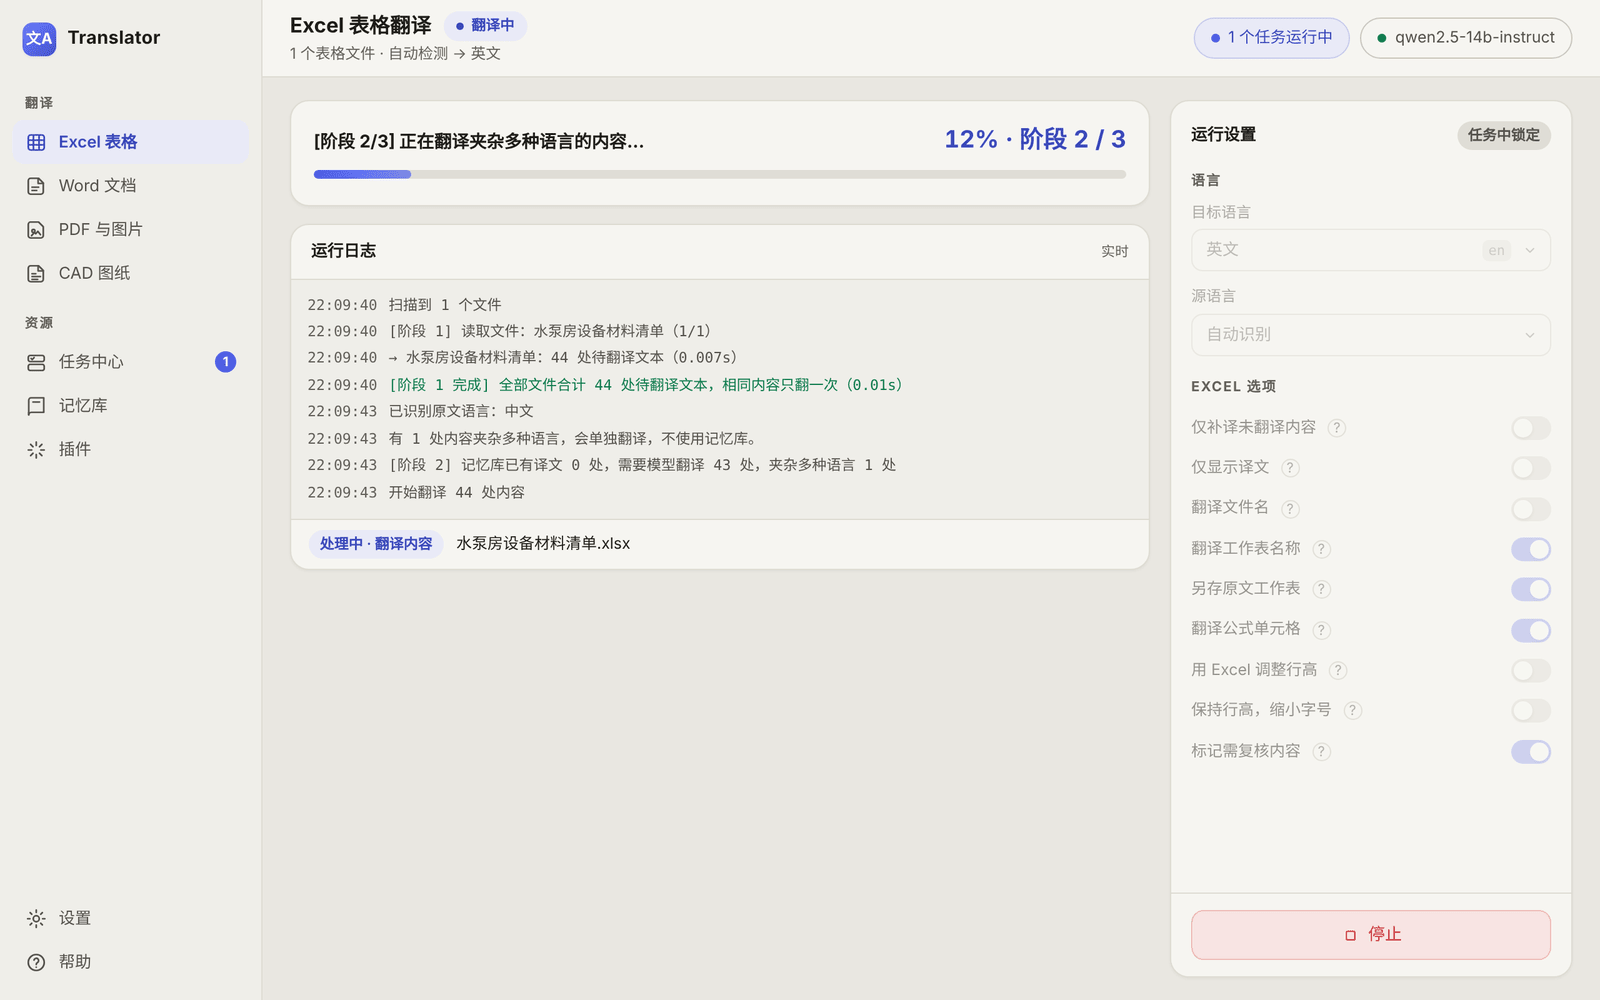
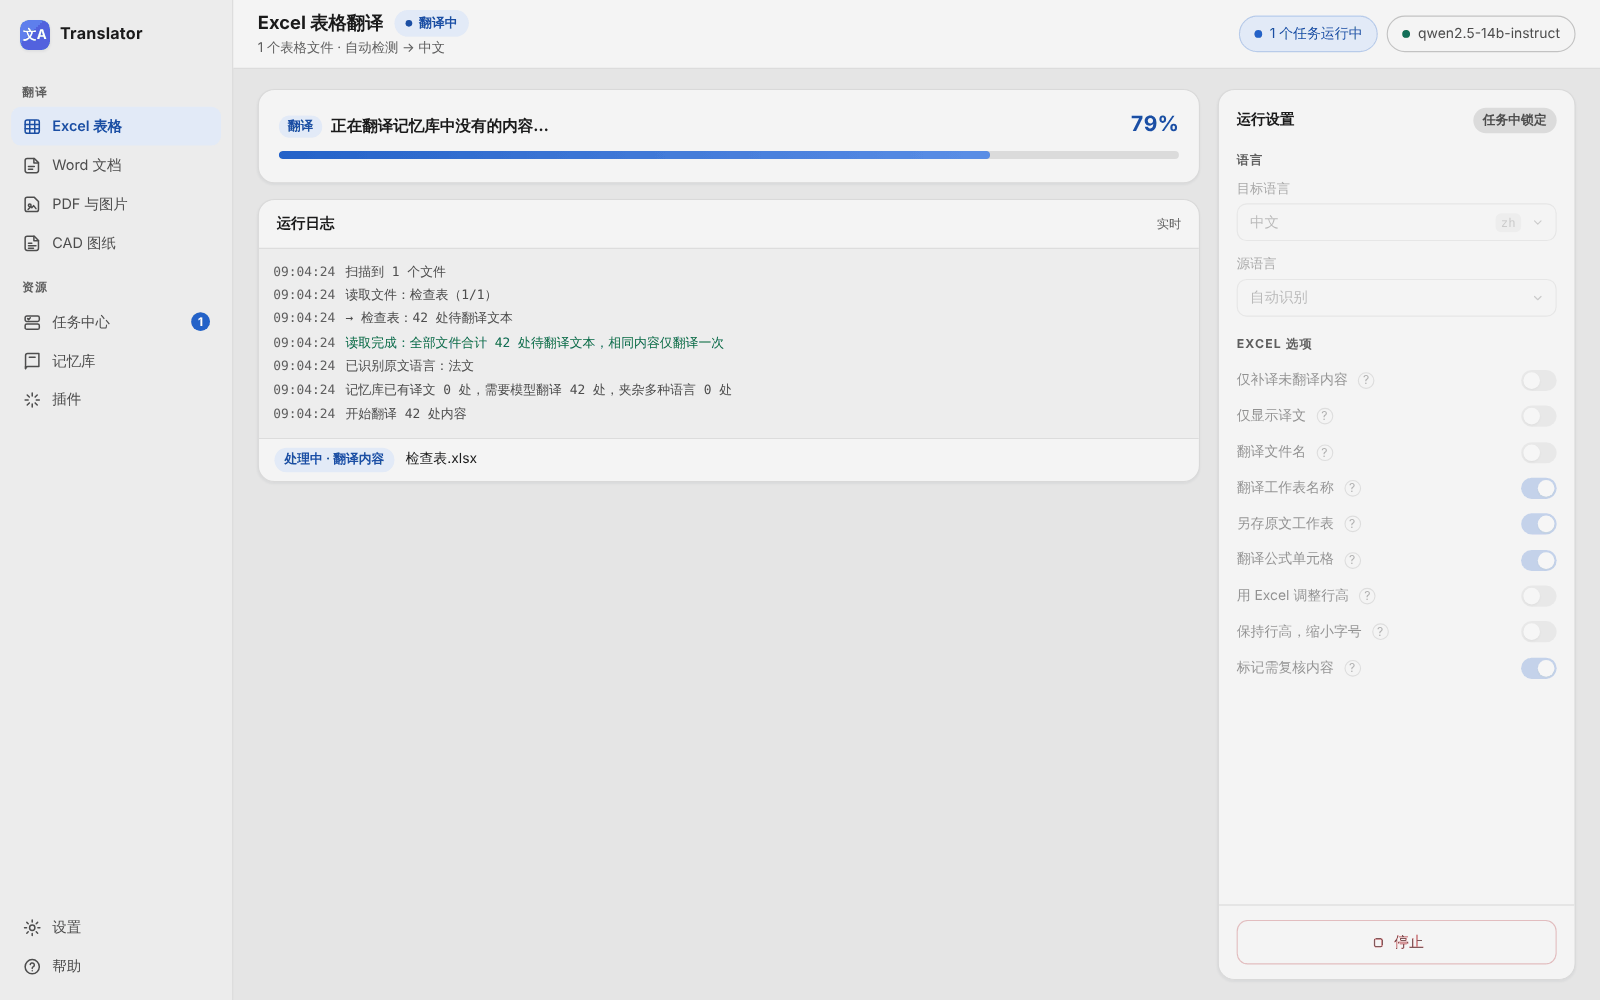
README：重拍界面截图，文件名与对照图内容一致
- 九张界面截图按当前版本重新实跑截取，使用默认素雅灰配色
- 截图中处理的文件与对照图内容对应，文件名统一为中性的示例名称
- 页首说明同步修改

Claude-Session: https://claude.ai/code/session_01SyDTdcTJaPDyKqRCtbBQ5g

diff --git a/README.md b/README.md
@@ -8,9 +8,9 @@ Translator is a desktop application for macOS and Windows that uses large langua
 
 ![Translator 主界面：Excel 翻译完成 · Main window after an Excel translation](docs/images/readme/app-excel.png)
 
-> 各功能下的翻译前后对照图取自实际工程文档的翻译结果，其中 Excel 与 PDF 为法译中，Word 与 CAD 图纸为中译法。应用界面截图使用一组虚构的示例文件生成，目标语言为英语，界面语言为中文。界面语言可在「设置 → 外观与语言」中切换为英语或法语；输出文件夹名称、报告文件及写入文档的复核标记目前仍为中文。
+> 本页的界面截图与各功能下的翻译前后对照图对应同一批工程文档：Excel 与 PDF 为法译中，Word 与 CAD 图纸为中译法。截图中的文件名均为中性的示例名称，界面语言为中文，配色为默认的素雅灰。界面语言可在「设置 → 外观与语言」中切换为英语或法语；输出文件夹名称、报告文件及写入文档的复核标记目前仍为中文。
 >
-> The before-and-after comparisons in each section are taken from real engineering documents: the Excel and PDF examples were translated from French into Chinese, and the Word and CAD examples from Chinese into French. The application screenshots were produced with a set of fictitious sample files translated into English, with the interface set to Chinese. The interface language can be changed to English or French under Settings → Appearance & language. Output folder names, report files and review markers written into documents remain in Chinese.
+> The application screenshots and the before-and-after comparisons on this page use the same set of engineering documents: the Excel and PDF examples were translated from French into Chinese, and the Word and CAD examples from Chinese into French. File names in the screenshots are neutral sample names; the interface is set to Chinese with the default Neutral grey color scheme. The interface language can be changed to English or French under Settings → Appearance & language. Output folder names, report files and review markers written into documents remain in Chinese.
 
 ## 功能 · Features
 
